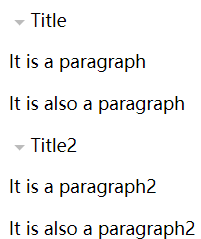
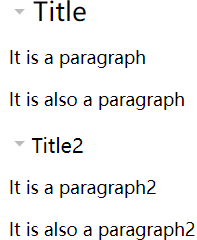
Add files via upload

diff --git a/web/JS/mymenu.js b/web/JS/mymenu.js
@@ -5,30 +5,37 @@ $(function () {
     var fillColor = "#bbbbbb";
     $("my-menu").css("cursor", "default");
     $("my-menu").css("display", "block");
+    // $("my-menu-header").css("height","20px");
     $("my-menu").each(function () {
         var expandState = $(this).attr("expandState");
         var header = $(this).children("my-menu-header");
-        var height = header.children().height();
+        var height = header.children().not("svg").height()
+        // height = header.attr("height");
+        if (isNaN(height) == true || height < 10) {
+            height = 20;
+        }
         var semiHeight = height / 2;
-
         var yPosition = (height - size * 2) / 2;
 
         var svgStr;
         switch (expandState) {
-            case "expend":
-                svgStr = "<svg style='height: " + height + ";width: " + svgWidth + "px'><g><path d='M" + offset + "," + semiHeight + " l" + (2 * size) + ",0 l-" + size + "," + size + "Z' style='fill:" + fillColor + ";stroke-width:0'/></g></svg>"
-                $(this).children().css("display", "block");
+            case "expand":
+                svgStr = "<svg style='height: " + height + "px;width: " + svgWidth + "px'><g><path d='M" + offset + "," + semiHeight + " l" + (2 * size) + ",0 l-" + size + "," + size + "Z' style='fill:" + fillColor + ";stroke-width:0'/></g></svg>"
+                $(this).children().not("my-menu-header").css("display", "block");
                 break;
             case "collapse":
-                svgStr = "<svg style='height: " + height + ";width: " + svgWidth + "px'><g><path d='M" + offset + "," + yPosition + " l" + size + "," + size + " l-" + size + "," + size + "Z' style='fill:" + fillColor + ";stroke-width:0'/></g></svg>"
+                svgStr = "<svg style='height: " + height + "px;width: " + svgWidth + "px'><g><path d='M" + offset + "," + yPosition + " l" + size + "," + size + " l-" + size + "," + size + "Z' style='fill:" + fillColor + ";stroke-width:0'/></g></svg>"
                 $(this).children().not("my-menu-header").css("display", "none");
                 break;
         }
         if ($(this).children().not("my-menu-header").length > 0) {
             header.prepend(svgStr);
         }
-        $(this).children("my-menu-header").children().css("display", "inline-flex");
-        $(this).children("my-menu-header").children().css("verticalAlign", "top");
+        header.children().css("display", "inline");
+        header.children().css("verticalAlign", "center");
+        var level = getLevel($(this));
+        // $(this).css("marginLeft", (level - 1) * 10 + "px");
+        header.css("fontSize", (5 - level) * 6 + "px");
     });
 
 
@@ -38,22 +45,31 @@ $(function () {
         var height = $(this).children().height();
         var semiHeight = height / 2;
         var yPosition = (height - size * 2) / 2;
-
+        var d;
         switch (expandState) {
-            case "expend":
-                var svgStr = "<svg style='height: " + height + ";width: " + svgWidth + "px'><g><path d='M" + offset + "," + yPosition + " l" + size + "," + size + " l-" + size + "," + size + "Z' style='fill:" + fillColor + ";stroke-width:0'/></g></svg>"
-                $(this).children().remove("svg");
-                $(this).prepend(svgStr);
+            case "expand":
+                d = "M" + offset + "," + yPosition + " l" + size + "," + size + " l-" + size + "," + size + "Z"
                 menuElement.attr("expandState", "collapse");
                 menuElement.children().not("my-menu-header").css("display", "none");
                 break;
             case "collapse":
-                $(this).children().remove("svg");
-                var svgStr = "<svg style='height: " + height + ";width: " + svgWidth + "px'><g><path d='M" + offset + "," + semiHeight + " l" + (2 * size) + ",0 l-" + size + "," + size + "Z' style='fill:" + fillColor + ";stroke-width:0'/></g></svg>"
-                $(this).prepend(svgStr);
-                menuElement.attr("expandState", "expend");
+                d = "M" + offset + "," + semiHeight + " l" + (2 * size) + ",0 l-" + size + "," + size + "Z";
+                menuElement.attr("expandState", "expand");
                 menuElement.children().not("my-menu-header").css("display", "block");
                 break;
         }
+        $(this).children("svg").children().children("path").attr("d", d);
     });
-})
+});
+
+function getLevel(mymenu) {
+    var level = 0;
+    while (mymenu[0].tagName == "MY-MENU") {
+        level = level + 1;
+        if (level > 5) {
+            break;
+        }
+        mymenu = $(mymenu.parent()[0]);
+    }
+    return level;
+}

diff --git a/web/HTML/testMyMenu.html b/web/HTML/testMyMenu.html
@@ -5,21 +5,22 @@
     <title>Title</title>
 </head>
 <body>
-<my-menu expandState="expend">
-    <my-menu-header>
+<my-menu expandState="expand">
+    <my-menu-header height="100">
         <div>Title</div>
     </my-menu-header>
     <p>It is a paragraph</p>
     <p>It is also a paragraph</p>
+    <my-menu expandState="expand" id="menu2">
+        <my-menu-header height="100">
+            <div>Title2</div>
+        </my-menu-header>
+        <p>It is a paragraph2</p>
+        <p>It is also a paragraph2</p>
+    </my-menu>
 </my-menu>
-<my-menu expandState="expend">
-    <my-menu-header>
-        <div>Title2</div>
-    </my-menu-header>
-    <p>It is a paragraph2</p>
-    <p>It is also a paragraph2</p>
-</my-menu>
-<script src="../JS/jquery.js"></script>
-<script src="../JS/MyJS/mymenu.js"></script>
+
+<script src="https://raw.githack.com/Jack5s/JavascriptMenu/master/web/JS/jquery.js"></script>
+<script src="../JS/mymenu.js"></script>
 </body>
 </html>

diff --git a/README.md b/README.md
@@ -1,12 +1,37 @@
 <h1>mymenu.js</h1>
 This file is to create expentable or collapsable menu using custom tag my-menu and my-menu-header based on javascript
-<h2>Expand Menu Image</h2>
+<h2>Expand Menu</h2>
 <img src="https://github.com/Jack5s/JavascriptMenu/blob/master/Image/expand.png"/>
-<h2>Collapse Menu Image</h2>
+<h2>Collapse Menu</h2>
 <img src="https://github.com/Jack5s/JavascriptMenu/blob/master/Image/collapse.png"/>
+<h2>HTML</h2>
 
-<h2>HTML</h2> 
-
+    <!DOCTYPE html>
+    <html lang="en">
+    <head>
+        <meta charset="UTF-8">
+        <title>Title</title>
+    </head>
+    <body>
+    <my-menu expandState="expend">
+        <my-menu-header>
+            <div>Title</div>
+        </my-menu-header>
+        <p>It is a paragraph</p>
+        <p>It is also a paragraph</p>
+    </my-menu>
+    <my-menu expandState="expend">
+        <my-menu-header>
+            <div>Title2</div>
+        </my-menu-header>
+        <p>It is a paragraph2</p>
+        <p>It is also a paragraph2</p>
+    </my-menu>
+    <script src="../JS/jquery.js"></script>
+    <script src="../JS/MyJS/mymenu.js"></script>
+    </body>
+    </html>
+    
 ```html
 <!DOCTYPE html>
 <html lang="en">
@@ -30,7 +55,7 @@ This file is to create expentable or collapsable menu using custom tag my-menu a
     <p>It is also a paragraph2</p>
 </my-menu>
 <script src="../JS/jquery.js"></script>
-<script src="../JS/mymenu.js"></script>
+<script src="../JS/MyJS/mymenu.js"></script>
 </body>
 </html>
 ```
